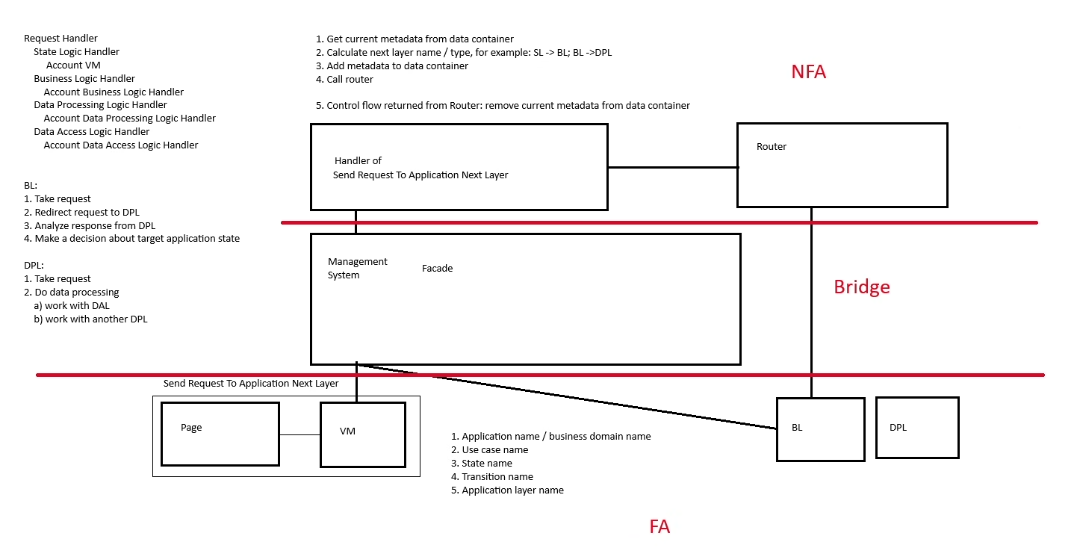
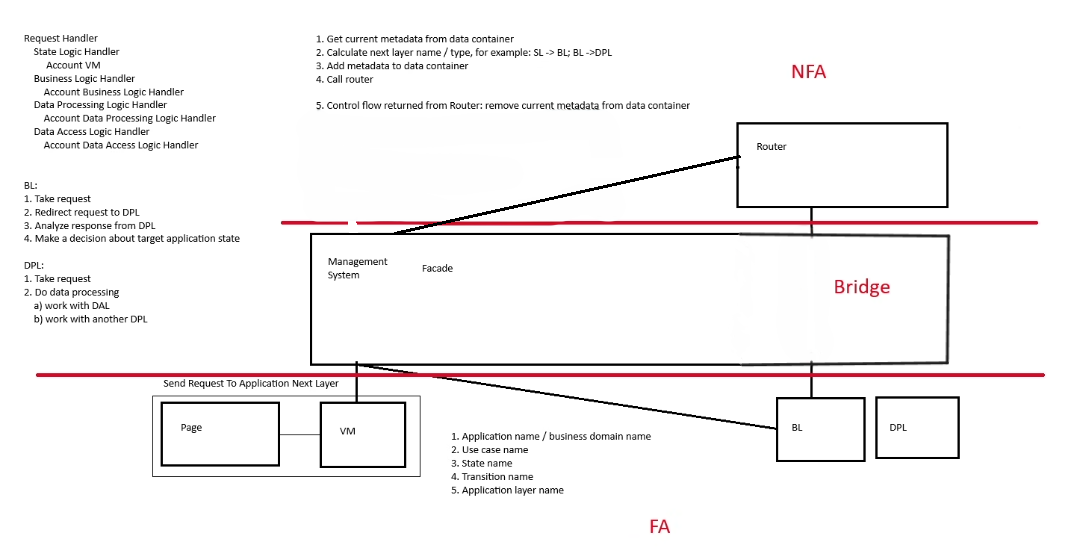
Event correction. Stoped on Builder creation

diff --git a/LoginTransitionApplicationSolution/Framework/DataTransferObjects/DataContiners/DataContainer.cs b/LoginTransitionApplicationSolution/Framework/DataTransferObjects/DataContiners/DataContainer.cs
@@ -65,12 +65,12 @@ namespace DataTrasferObjectInterfaces
         }
 
         /// <summary>
-        /// Method for getting DTO from DataContainer
+        /// Method for getting first DTO from DataContainer
         /// </summary>
         /// <typeparam name="T">Type of DTO</typeparam>
         /// <param name="key">Key wich points on right DTO</param>
         /// <returns>DTO</returns>
-        public T? GetDTO<T>(string key)
+        public T? GetFirstDTO<T>(string key)
         {
             IDataCollection<T>? dataCollection = this.GetDataCollection<T>(key);
 
@@ -90,6 +90,31 @@ namespace DataTrasferObjectInterfaces
         }
 
         /// <summary>
+        /// Method for getting last DTO from DataContainer
+        /// </summary>
+        /// <typeparam name="T">Type of DTO</typeparam>
+        /// <param name="key">Key wich points on right DTO</param>
+        /// <returns>DTO</returns>
+        public T? GetLastDTO<T>(string key)
+        {
+            IDataCollection<T>? dataCollection = this.GetDataCollection<T>(key);
+
+            if (dataCollection == null)
+            {
+                return default;
+            }
+
+            if (dataCollection.Count == 0)
+            {
+                return default;
+            }
+
+            T dto = dataCollection[Count - 1];
+
+            return dto;
+        }
+
+        /// <summary>
         /// Method for deleting the last DTO in DataCollection
         /// </summary>
         /// <typeparam name="T">Type of DTO</typeparam>
@@ -101,7 +126,7 @@ namespace DataTrasferObjectInterfaces
             if (dataCollection == null || dataCollection.Count == 0)
             {
                 return;
-            }                
+            }
 
             dataCollection.RemoveAt(dataCollection.Count - 1);
         }

diff --git a/LoginTransitionApplicationSolution/LayerProjects/Account.VM/Logging/LoginViewModelPrivate.cs b/LoginTransitionApplicationSolution/LayerProjects/Account.VM/Logging/LoginViewModelPrivate.cs
@@ -84,7 +84,7 @@ namespace Account.VM
         /// </summary>
         private void SendRequestToNextApplicationLayer()
         {
-            _managmentSystemEvents.Raise(DataContainer);
+            _managmentSystemEvents.RouteRequest(DataContainer);
         }
 
         /// <summary>
@@ -100,7 +100,7 @@ namespace Account.VM
         /// </summary>
         private void GetMessageFromeResponse()
         {
-            MessageDTO = DataContainer.GetDTO<MessageDTO>(TableTypes.MESSAGE)!;
+            MessageDTO = DataContainer.GetFirstDTO<MessageDTO>(TableTypes.MESSAGE)!;
         }
 
         /// <summary>
@@ -110,7 +110,7 @@ namespace Account.VM
         {
             LoginSuccessful = false;
 
-            MetaDataDTO metaDataDTO = DataContainer.GetDTO<MetaDataDTO>(TableTypes.META_DATA)!;
+            MetaDataDTO metaDataDTO = DataContainer.GetFirstDTO<MetaDataDTO>(TableTypes.META_DATA)!;
             if (metaDataDTO.StateName == StateContract.INITIAL)
             {
                 LoginSuccessful = true;
@@ -137,7 +137,7 @@ namespace Account.VM
         /// </summary>
         private void CacheAccount()
         {
-            AccountDTO = DataContainer.GetDTO<AccountDTO>(TableTypes.ACCOUNT + TableTypes.SEARCH_RESULT_SUFFIX)!;
+            AccountDTO = DataContainer.GetFirstDTO<AccountDTO>(TableTypes.ACCOUNT + TableTypes.SEARCH_RESULT_SUFFIX)!;
             AccountDTO accountDTOClone = AccountDTO.DeepClone();
             Cache.GetInstance().ApplicationCache.Add(UseCaseContract.CACHED_ACCOUNT, accountDTOClone);
         }

diff --git a/LoginTransitionApplicationSolution/Handlers/LoginTransitionHandlers/LoginTransitionHandler.cs b/LoginTransitionApplicationSolution/Handlers/LoginTransitionHandlers/LoginTransitionHandler.cs
@@ -1,0 +1,37 @@
+using Account.CON;
+using ApplicationEvents;
+using DataTrasferObjectInterfaces;
+
+
+namespace LoginTransitionHandlers
+{
+    public partial class LoginTransitionHandler
+    {
+        public MainService(ManagmentSystemEvents events)
+        {
+            events.GoToManagmentSystem += CatchEventFromLogicLayer;
+        }
+
+        private void CatchEventFromLogicLayer(IDataContainer dataContainer)
+        {
+            InitializeComponent(dataContainer);
+            GetLastMetaDataDTO();
+
+
+            switch (MetaDataDTO.LayerName)
+            {
+                case LayerContract.VM:
+                    break;
+
+                case LayerContract.BL:
+                    break;
+
+                case LayerContract.DPL:
+                    break;
+
+                case LayerContract.DAL:
+                    break;
+            }
+        }
+    }
+}

diff --git a/LoginTransitionApplicationSolution/Handlers/LoginTransitionHandlers/LoginTransitionHandlerPrivate.cs b/LoginTransitionApplicationSolution/Handlers/LoginTransitionHandlers/LoginTransitionHandlerPrivate.cs
@@ -1,0 +1,37 @@
+using DataTrasferObjectInterfaces;
+
+
+namespace LoginTransitionHandlers
+{
+    public partial class LoginTransitionHandler
+    {
+        #region Data fields
+
+        private IMetaDataDTO MetaDataDTO
+        {
+            get; set;
+        } = default!;
+
+        private IDataContainer DataContainer
+        {
+            get; set;
+        } = default!;
+
+        #endregion
+
+        #region Methods
+
+        private void InitializeComponent(IDataContainer dataContainer)
+        {
+            DataContainer = dataContainer;
+        }
+
+        private void GetLastMetaDataDTO()
+        {
+            MetaDataDTO = DataContainer.GetLastDTO<IMetaDataDTO>(TableTypes.META_DATA)!;
+        }
+
+        #endregion
+
+    }
+}

diff --git a/LoginTransitionApplicationSolution/ApplicationProjects/ManagmentSystem/ApplicationSystemPrivate.cs b/LoginTransitionApplicationSolution/ApplicationProjects/ManagmentSystem/ApplicationSystemPrivate.cs
@@ -1,0 +1,37 @@
+using DataTrasferObjectInterfaces;
+
+
+namespace ManagmentSystem
+{
+    public partial class ApplicationSystem
+    {
+        #region Data fields
+
+        private IMetaDataDTO MetaDataDTO
+        {
+            get; set;
+        } = default!;
+
+        private IDataContainer DataContainer
+        {
+            get; set;
+        } = default!;
+
+        #endregion
+
+        #region Methods
+
+        private void InitializeComponent(IDataContainer dataContainer)
+        {
+            DataContainer = dataContainer;
+        }
+
+        private void GetLastMetaDataDTO()
+        {
+            MetaDataDTO = DataContainer.GetLastDTO<IMetaDataDTO>(TableTypes.META_DATA)!;
+        }
+
+        #endregion
+
+    }
+}

diff --git a/LoginTransitionApplicationSolution/ServiceProjects/Router/ApplicationRouter.cs b/LoginTransitionApplicationSolution/ServiceProjects/Router/ApplicationRouter.cs
@@ -1,0 +1,26 @@
+namespace Router
+{
+    public class ApplicationRouter
+    {
+        public void Redirect(IDataContainer dataContainer)
+        {
+            switch (MetaDataDTO.LayerName)
+            {
+                case LayerContract.VM:
+                    break;
+
+                case LayerContract.BL:
+                    break;
+
+                case LayerContract.DPL:
+                    break;
+
+                case LayerContract.DAL:
+                    break;
+            }
+
+            ITransitionHandler transitionHandler = _serviceProvider.GetRequiredKeyedService<ItransitionHandler>(key);
+            ManagementSystem.InitializeTransitionHandler(transitionHandler);
+        }
+    }
+}

diff --git a/LoginTransitionApplicationSolution/ApplicationProjects/ManagmentSystem/ApplicationSystem.cs b/LoginTransitionApplicationSolution/ApplicationProjects/ManagmentSystem/ApplicationSystem.cs
@@ -1,0 +1,26 @@
+using ApplicationEvents;
+using DataTrasferObjectInterfaces;
+
+
+namespace ManagmentSystem
+{
+    public partial class ApplicationSystem
+    {
+        public ApplicationSystem()
+        {
+        }
+
+        public ApplicationSystem(ManagmentSystemEvents events)
+        {
+            events.GoToRouter += CatchEventFromLogicLayer;
+        }
+
+        private void CatchEventFromLogicLayer(IDataContainer dataContainer)
+        {
+            InitializeComponent(dataContainer);
+            GetLastMetaDataDTO();
+
+
+        }
+    }
+}

diff --git a/LoginTransitionApplicationSolution/Solution/Events/ManagmentSystemEvents.cs b/LoginTransitionApplicationSolution/Solution/Events/ManagmentSystemEvents.cs
@@ -4,11 +4,11 @@ namespace ApplicationEvents
 {
     public class ManagmentSystemEvents
     {
-        public event Action<IDataContainer>? GoToManagmentSystem;
+        public event Action<IDataContainer>? GoToRouter;
 
-        public void Raise(IDataContainer data)
+        public void RouteRequest(IDataContainer dataContainer)
         {
-            GoToManagmentSystem?.Invoke(data);
+            GoToRouter?.Invoke(dataContainer);
         }
     }
 }

diff --git a/LoginTransitionApplicationSolution/ServiceProjects/Builder/RequestBuilder.cs b/LoginTransitionApplicationSolution/ServiceProjects/Builder/RequestBuilder.cs
@@ -1,7 +1,18 @@
-namespace Builder
+using ManagmentSystem;
+using Router;
+
+namespace Builder
 {
     public class RequestBuilder
     {
+        public ApplicationSystem Build()
+        {
+            ApplicationSystem application = new ApplicationSystem();
+            ApplicationRouter applicationRouter = new ApplicationRouter();
 
+            application += applicationRouter;
+
+            return application;
+        }
     }
 }

diff --git a/LoginTransitionApplicationSolution/Framework/DataTrasferObjectInterfaces/DataContainersInterfaces/IDataContainer.cs b/LoginTransitionApplicationSolution/Framework/DataTrasferObjectInterfaces/DataContainersInterfaces/IDataContainer.cs
@@ -25,7 +25,9 @@
         IDataCollection<T>? GetDataCollection<T>(string key);
 
 
-        T? GetDTO<T>(string key);
+        T? GetFirstDTO<T>(string key);
+
+        T? GetLastDTO<T>(string key);
 
         /// <summary>
         /// Method for deleting the last DTO in DataCollection
